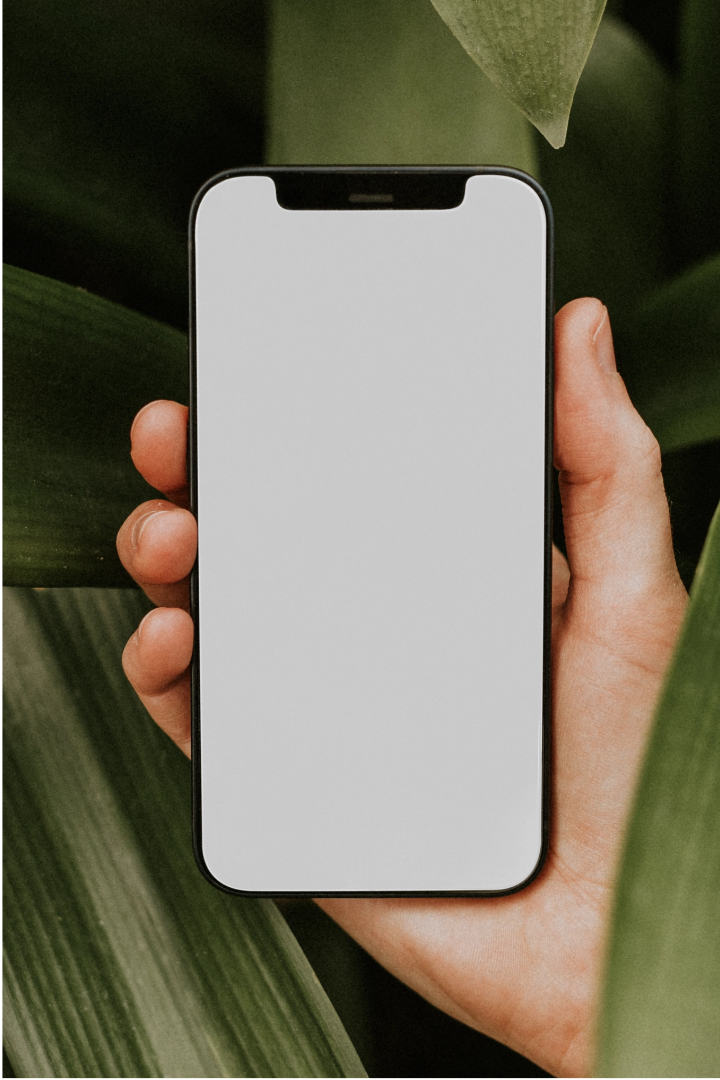
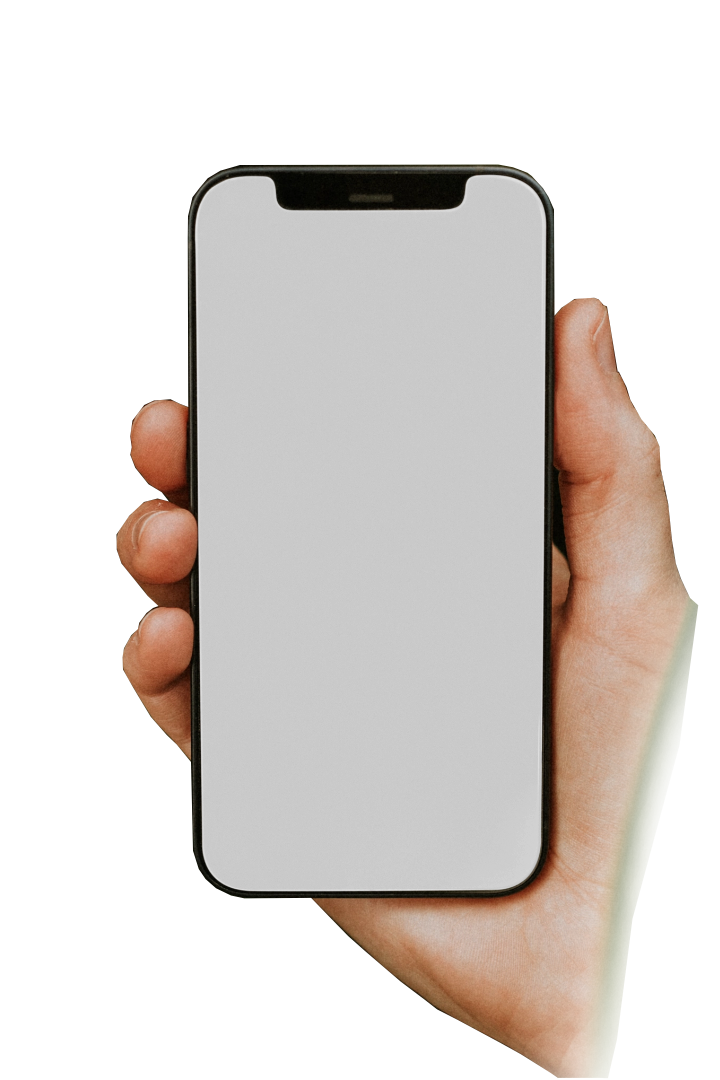
Update Design doc to reflect latest state adjust frames visually fix paining frame

diff --git a/design-doc.md b/design-doc.md
@@ -9,12 +9,13 @@ Godot software for an artistic vision of "scroll fatigue" — engagement with ea
 
 ## Implementation Status (read second, right after §0)
 
-- **Built:** `feed/` (post_card, feed, prompt_finger, dwell_tracker), all four `autoload/` singletons (`content_library`, `session_data`, `state_machine`, `external_bridge`), `shaders/image_distort.gdshader`, `framing/` (`frame_base`, `frame_host`, `phone_frame`), and `printing/printing_overlay`, `printing/horoscope_client` — see §1 tree for what each does.
+- **Built:** `feed/` (post_card, feed, prompt_finger, dwell_tracker), all four `autoload/` singletons (`content_library`, `session_data`, `state_machine`, `external_bridge`), `shaders/image_distort.gdshader`, `framing/` (`frame_base`, `frame_host`, `phone_frame`, `focus_frame`), `printing/printing_overlay`, `printing/horoscope_client`, and `main/` (`main.tscn`, `main.gd`) — see §1 tree for what each does.
 - **Mocked:** `external/horoscope_api.py`, `external/print_job.py` — match the §5 CLI contract but return canned/templated results; swap for the real you.com API and printer hardware later (§7 step 7).
-- **Not built:** `picture_frame`, `printing/result_card`, `text_distort`/`feed_distort` shaders, `main.tscn`/`main.gd`.
-- **Nothing wires the built pieces together yet** except PRINTING → REVERTING. `StateMachine`'s `request_*`/`notify_*` methods and `ExternalBridge`'s `request_horoscope()`/`request_print()` all exist and work standalone, but no scene calls into them — that's `main.gd`'s job (§3, §5, §7). `dwell_tracker.gd` is wired to `Feed`/`StateMachine` directly since it owns that edge; `printing_overlay.gd` is likewise wired directly to `StateMachine`/`ExternalBridge` since it owns the PRINTING edge.
+- **Not built:** `picture_frame`, `printing/result_card`, `text_distort`/`feed_distort` shaders.
+- **`main.gd` is the conductor** (§3a): forwards `Feed.first_interaction` → `StateMachine.notify_first_interaction()`, maps `StateMachine.state_changed` onto `frame_host` framing (incl. fatigue-driven DISTORTING escalation), and owns REVERTING cleanup (`Feed.reset()` + bare framing → `request_idle()`). `dwell_tracker.gd` (FOCUSING edge) and `printing_overlay.gd` (PRINTING edge) stay wired to `StateMachine`/`ExternalBridge` directly; `main.gd` does not duplicate them.
 - `feed.gd` never reads or drives `StateMachine` — it only exposes `set_scroll_locked()`, `reset()`, and `nearest_card_changed`/`first_interaction` signals (§2a). Whoever owns dwell/framing/FSM calls into Feed, never the reverse.
 - `post_card.tscn`'s `ArtworkRect` carries the distortion `ShaderMaterial` directly (no `CanvasGroup`); captions are unaffected.
+- `frame_host.gd` exposes `@export var feed` (the inner SubViewport Feed); `main.gd` reads it as `frame_host.feed`. `DwellTracker` lives inside `frame_host.tscn` beside the Feed so its own `@export feed` resolves without editable children.
 
 ## 0. Structural Conventions
 
@@ -40,8 +41,8 @@ res://
 │                              #   + fallbacks. See §5.
 │
 ├── main/
-│   ├── main.tscn              # ⬜ root: FrameHost + PrintingOverlay layers; listens to StateMachine
-│   └── main.gd                # ⬜ forwards Feed's signals into StateMachine — nothing does this yet
+│   ├── main.tscn              # ✅ root Control: FrameHost + PrintingOverlay instances. Project main scene.
+│   └── main.gd                # ✅ conductor: first_interaction->FSM, state_changed->framing, REVERTING cleanup. §3a.
 │
 ├── feed/                      # everything that lives INSIDE the SubViewport
 │   ├── feed.tscn / feed.gd    # ✅ recycled post_card pool, drag/momentum scroll, fatigue accumulation,
@@ -50,20 +51,17 @@ res://
 │   │                          #   pre-assigned ShaderMaterial.
 │   ├── dwell_tracker.gd       # ✅ @export var feed; polls SessionData.scroll_velocity against
 │   │                          #   dwell_threshold with a forgiveness_window, then feed.set_scroll_locked(true)
-│   │                          #   + StateMachine.request_focus()/cancel_focus(). See §3a.
+│   │                          #   + StateMachine.request_focus()/cancel_focus(). Node in frame_host.tscn. See §3a.
 │   └── prompt_finger.tscn/.gd # ✅ looping swipe tween; dismiss()/reset() fade out/in. Wired into feed.gd.
 │
 ├── framing/                   # presents the SubViewport in a context
 │   ├── frame_host.tscn        # ✅ FrameHost (Control) > FeedContainer (SubViewportContainer > SubViewport >
-│   │                          #   Feed instance) + DecorationLayer (Control, mouse_filter=Ignore).
+│   │                          #   Feed instance) + DecorationLayer (Ignore) + DwellTracker. Exposes @export feed.
 │   ├── frame_host.gd          # ✅ to_bare_fullscreen()/show_frame(PackedScene) tween FeedContainer to the
 │   │                          #   active frame's FeedSlot rect, aspect-fit clamped (see §2), crossfade
 │   │                          #   decoration via FrameBase.enter/exit. Manual push_input() fallback wired,
 │   │                          #   off by default.
 │   ├── frame_base.gd          # ✅ abstract: feed_slot_path, get_feed_global_rect(), enter()/exit().
-│   ├── debug_state_router.gd  # ✅ STOPGAP: forwards Feed.first_interaction -> StateMachine.notify_first_interaction(),
-│   │                          #   and StateMachine.state_changed -> frame_host.show_frame()/
-│   │                          #   to_bare_fullscreen(). Delete once main.gd exists (§3a).
 │   └── frames/
 │       ├── phone_frame.tscn/.gd  # ✅ placeholder hand+phone decoration + FeedSlot.
 │       ├── picture_frame.tscn/.gd # ⬜ same pattern as phone_frame.
@@ -178,14 +176,14 @@ IDLE → SCROLLING → DISTORTING → (dwell timeout) FOCUSING → PRINTING → 
 
 ### As implemented (`state_machine.gd`)
 
-- Single `state_changed(previous, current)` signal — no per-state signals.
+- Single `state_changed(previous: int, current: int)` signal — no per-state signals. States are `enum STATE { IDLE, SCROLLING, DISTORTING, FOCUSING, PRINTING, REVERTING }` (callers use `StateMachine.STATE.X`); current state is `var state: int`. `_on_enter()` runs **before** `state_changed` is emitted, so REVERTING's `SessionData.reset()`/`reshuffle_order()` are already applied by the time listeners react.
 - Only automatic transition: `SCROLLING -> DISTORTING`, gated by `@export var distorting_fatigue_threshold` (default `0.25`) against `SessionData.fatigue`. Every other edge is an explicit no-op-if-wrong-state call:
-  - `notify_first_interaction()` — `IDLE -> SCROLLING` + flips `has_interacted`. **Unwired** (meant for `main.gd` off `Feed.first_interaction`).
+  - `notify_first_interaction()` — `IDLE -> SCROLLING` + flips `has_interacted`. Wired by `main.gd` off `Feed.first_interaction`.
   - `request_focus()` / `cancel_focus()` — `dwell_tracker.gd`.
   - `request_printing()` — `focus_frame.gd`, once its scale-up tween completes.
   - `request_revert()` — `printing_overlay.gd`, once both `ExternalBridge` signals land.
   - `request_idle()` — `main.gd`, once revert visuals finish.
-- On entering `REVERTING`, the FSM itself calls `SessionData.reset()` + `ContentLibrary.reshuffle_order()` — it does **not** touch `Feed` or `frame_host`; that scene-level cleanup is unowned until `main.gd` exists.
+- On entering `REVERTING`, the FSM calls `SessionData.reset()` + `ContentLibrary.reshuffle_order()` **before** emitting `state_changed`, so the reshuffle is live when `main.gd` rebuilds. Scene-level cleanup (`Feed.reset()`, bare framing) is owned by `main.gd`, which then calls `request_idle()`.
 
 ## 3a. Dwell Detection (`dwell_tracker.gd`, as implemented)
 
@@ -195,8 +193,8 @@ IDLE → SCROLLING → DISTORTING → (dwell timeout) FOCUSING → PRINTING → 
 - A new `nearest_card_changed` while focused calls `StateMachine.cancel_focus()` + unlocks the feed before tracking the new card — covers the "scrolled away mid-tween" cancel path.
 - Exported knobs: `dwell_threshold` (1.2s default), `forgiveness_window` (0.3s), `velocity_still_threshold` (40 px/s).
 - `focus_frame.gd` (extends `FrameBase`, same pattern as `phone_frame`) owns the FOCUSING → PRINTING edge: `enter(duration: float) -> void` (signature from `FrameBase`, driven by `frame_host`'s crossfade timing) fades the frame in, then calls `StateMachine.request_printing()` once the fade completes. `exit(duration: float) -> Tween` returns its tween so `frame_host` can await it before swapping frames. Its `progress_bar` export is chrome only — `printing_overlay.gd` (unbuilt) will drive its value later.
-- `debug_state_router.gd` is a temporary stand-in for `main.gd`: forwards `Feed.first_interaction` into `StateMachine.notify_first_interaction()` (without this, IDLE never advances — nothing else calls it) and listens to `StateMachine.state_changed` to call `frame_host.to_bare_fullscreen()`/`show_frame()` accordingly. **Delete it once `main.gd` exists** — don't merge its logic in, `main.gd` also needs to forward `Feed`'s signals the other direction.
-- PRINTING now resolves on its own: `printing_overlay.gd` drives `focus_frame`'s progress bar and calls `StateMachine.request_revert()` once the (mocked) horoscope + print calls both land. Still stuck without `main.gd`/`debug_state_router.gd` wiring `Feed`/`frame_host` into `StateMachine`'s other transitions.
+- `main.gd` (`main/`, extends `Control`) owns framing orchestration and the IDLE/REVERTING bookends. In `_ready()` it connects `Feed.first_interaction -> StateMachine.notify_first_interaction` and `StateMachine.state_changed -> _on_state_changed`, then sets bare framing. Per state: IDLE → `to_bare_fullscreen()`; DISTORTING → polls `SessionData.fatigue` in `_process` and escalates bare → `phone_frame` → `picture_frame` at `@export` thresholds (`picture_frame_scene` optional — caps at phone until built); FOCUSING → `show_frame(focus_frame_scene)`; PRINTING → no-op (owned by focus_frame + printing_overlay); REVERTING → `Feed.reset()` + `to_bare_fullscreen()`, then `request_idle()` after `revert_settle_time`. Reads the Feed via `frame_host.feed`. `debug_state_router.gd` is deleted.
+- PRINTING resolves on its own: `printing_overlay.gd` drives `focus_frame`'s progress bar and calls `StateMachine.request_revert()` once the (mocked) horoscope + print calls both land.
 
 ## 4. Content Loading
 
@@ -220,6 +218,7 @@ IDLE → SCROLLING → DISTORTING → (dwell timeout) FOCUSING → PRINTING → 
 - `.py` scripts run via `python3` (dev convenience); anything else (a PyInstaller build, the intended export target) runs directly — decided per-call from the extension.
 - Path resolution mirrors `content_library.gd` (executable-adjacent `external/`, else `res://external`).
 - Only one horoscope request and one print request in flight at a time; a second call while one is alive is ignored with a warning.
+- `request_horoscope(artwork_data: Dictionary)` takes the whole ArtworkData dict and builds the CLI flags itself — callers pass the dict through untouched (it also carries `_resolved_path` for `print_job.py`'s `--image`). `horoscope_client.gd` only validates it.
 
 **Still open**: `horoscope_api.py`/`print_job.py` are mocked (templated text, no real network/serial I/O) — swap for the real you.com API and thermal-pocket-printer calls with no Godot-side changes needed, since `external_bridge.gd` already calls them by the CLI contract above.
 
@@ -232,7 +231,7 @@ IDLE → SCROLLING → DISTORTING → (dwell timeout) FOCUSING → PRINTING → 
 - **Dwell detection forgiveness window**: brief pauses shouldn't trigger focus, only sustained stillness. *(Done — §3a.)*
 - **API latency variance**: *(Done — 12s/20s timeouts + fallback text, §5.)*
 - **Exported build + external assets**: path resolution logic done in `content_library.gd`/`external_bridge.gd`; still needs verification on real kiosk hardware.
-- **Session reset integrity**: `state_machine.gd` clears `SessionData`/reshuffles on REVERTING; scene-level cleanup (shader uniforms, tweens, `Feed.reset()`) is unowned until `main.gd` exists.
+- **Session reset integrity**: `state_machine.gd` clears `SessionData`/reshuffles on REVERTING; scene-level cleanup (`Feed.reset()`, bare framing) owned by `main.gd`. *(Done.)*
 
 ## 7. Suggested Build Order
 
@@ -240,7 +239,7 @@ IDLE → SCROLLING → DISTORTING → (dwell timeout) FOCUSING → PRINTING → 
 2. Image distortion shader + debug slider. **Done.**
 3. Fatigue accumulation from real scroll input. **Done** — `feed.gd`'s `_update_fatigue` → `SessionData.fatigue`.
 4. **Framing spike**: **Done.** `frame_host`/`frame_base`/`phone_frame`/`focus_frame` built (`picture_frame` remains, same pattern); SubViewport sizing and aspect-ratio distortion bugs resolved (§2).
-5. Dwell detection + FOCUSING transition: **Done** (§3a) via `dwell_tracker.gd` + `focus_frame.gd`, wired through the temporary `debug_state_router.gd` until `main.gd` exists. PRINTING still dead-ends (see §3a known-issue note).
+5. Dwell detection + FOCUSING transition: **Done** (§3a) via `dwell_tracker.gd` + `focus_frame.gd`, now driven through `main.gd`.
 6. External script plumbing. **Done with mocks** — `external_bridge.gd`, `horoscope_client.gd`, `printing_overlay.gd` all built; `horoscope_api.py`/`print_job.py` mocked per §5 CLI contract.
 7. Swap in real you.com API and printer hardware.
-8. Reset/revert flow + exhibit hardening. `state_machine.gd` and `Feed.reset()` exist; remaining work is `main.gd` wiring `Feed.reset()` + scene-level cleanup alongside `StateMachine`'s reset, then calling `request_idle()`.
+8. Reset/revert flow + exhibit hardening. **Full loop wired** via `main.gd` (`Feed.reset()` + bare framing → `request_idle()`). Remaining: exhibit hardening + kiosk-hardware verification (§6).